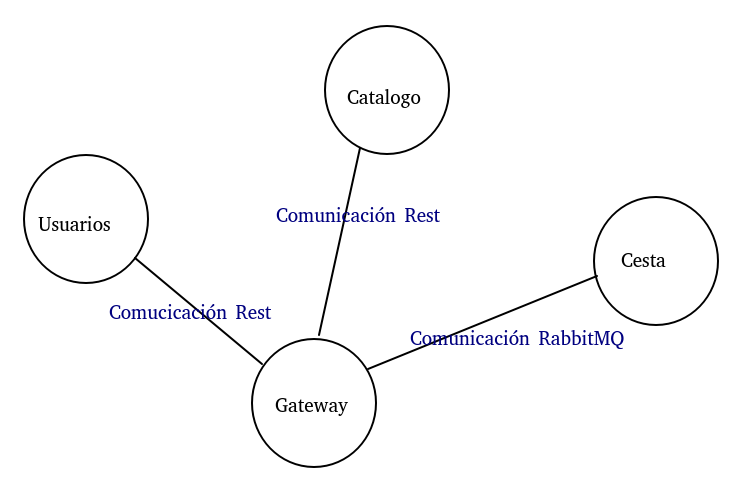
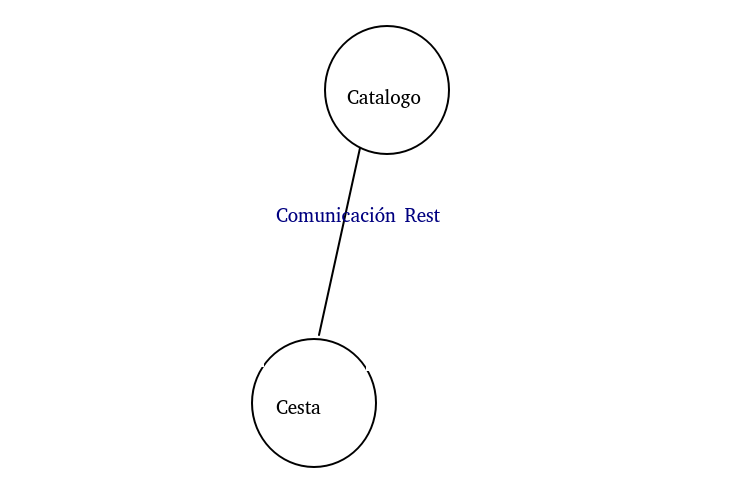
reestructuro proyecto

diff --git a/doc/arquitectura.md b/doc/arquitectura.md
@@ -9,7 +9,6 @@ Tenemos como proyecto para una tienda Online, vamos a hacer parte del proyecto p
 
 ***Microservicios:***
 
-     - Usuarios (gestión de perfiles de usuario).
      - Catalogo (gestión de la base de catalogo de productos).
      - Cesta (muestra los pedidos de un usuario).
  
@@ -17,11 +16,9 @@ Tenemos como proyecto para una tienda Online, vamos a hacer parte del proyecto p
 
 * Las comunicaciones entre microservicios se hará a traves del Gateway, esto se va ha hacer por razones de seguridad, para poder monitorear la Api (si nos diera tiempo).
 
-* La comunicación entre "Gateway" y los microservicios "Catalogo" y "Usuarios" será a través de paso de mensajes con Api Rest, sin embargo la comunicación entre "Gateway" y "Cesta"  vamos a implementar el Bróker de agente de mensajería RabbitMQ, ya que es open source y es compatible con muchos lenguajes. 
+* La comunicación entre los microservicios "Catalogo" y "Cesta" será a través de paso de mensajes con Api Rest.
 
-* RabbitMQ es un proyecto open source que implementa el estándar AMQP, ademas es compatible con muchos lenguajes (Java, Node.js o Ruby), mensajería de AMQP es un protocolo de comunicación asíncrona a HTTP, esta da al microservicio donde se use, la capacidad de poner en cola las peticiones que le lleguen.
-
-* Configuración distribuida con etcd. Como se comenta en [este](https://www.digitalocean.com/community/tutorials/el-ecosistema-de-docker-descubridor-de-servicio-y-los-almacenes-de-distribucion-de-configuracion-es) articulo, "etcd es una herramienta de descubrimiento de servicio y configuración global distribuida tanto para contenedores como para el sistema host". También se puede usar con [RabbitMQ 3.7.0](https://github.com/rabbitmq/rabbitmq-peer-discovery-etcd) o superior, ademas se puede ejecutar en Ruby facilmente con la instalación de una [gema](https://www.rubydoc.info/gems/etcdv3).
+* Configuración distribuida con etcd. Como se comenta en [este](https://www.digitalocean.com/community/tutorials/el-ecosistema-de-docker-descubridor-de-servicio-y-los-almacenes-de-distribucion-de-configuracion-es) articulo, "etcd es una herramienta de descubrimiento de servicio y configuración global distribuida tanto para contenedores como para el sistema host". Ademas se puede ejecutar en Ruby facilmente con la instalación de una [gema](https://www.rubydoc.info/gems/etcdv3).
 
 * Cada microservicio se intentará hacer en un lenguaje de programación diferente, aunque como lenguaje principal vamos a usar Ruby con el Framework [sinatra](http://sinatrarb.com/) para servicios web, es open source, es flexible y rápido.
 
@@ -35,9 +32,4 @@ Tenemos como proyecto para una tienda Online, vamos a hacer parte del proyecto p
 
 * Para la gestión de bibliotecas usaremos RubyGems.
 
-* Alojaremos los distintos microservicios de nuestra aplicación en contenedores Docker.
 
-* Haremos un despliegue en la nube, para ello estamos barajando las plataformas Azure ó Amazon.
-
-
-[Enlace a la siguiente tarea documentada](historias_de_usuario.md)

diff --git a/README.md b/README.md
@@ -17,9 +17,7 @@ Tenemos como proyecto para una tienda Online, vamos a hacer parte del proyecto p
 
 * Para la gestión de bibliotecas usaremos RubyGems.
 
-* Alojaremos los distintos microservicios de nuestra aplicación en contenedores Docker.
 
-* Haremos un despliegue en la nube, para ello estamos barajando las plataformas Azure ó Amazon.
 
 ## Historias de usuario:
 
@@ -28,8 +26,6 @@ Tenemos como proyecto para una tienda Online, vamos a hacer parte del proyecto p
 Enlace a las [Historias de usuario:](https://github.com/mati3/CC-WebProject/milestone/3)
 
 - [Consultar productos.](https://github.com/mati3/CC-WebProject/issues/18) 
-- [Consultar usuarios.](https://github.com/mati3/CC-WebProject/issues/19)
 - [Realizar una compra.](https://github.com/mati3/CC-WebProject/issues/20)
 - [Consultar compras de un usuario.](https://github.com/mati3/CC-WebProject/issues/21)
 
-Enlace a la documentación [integración continua](integracion_continua.md)
